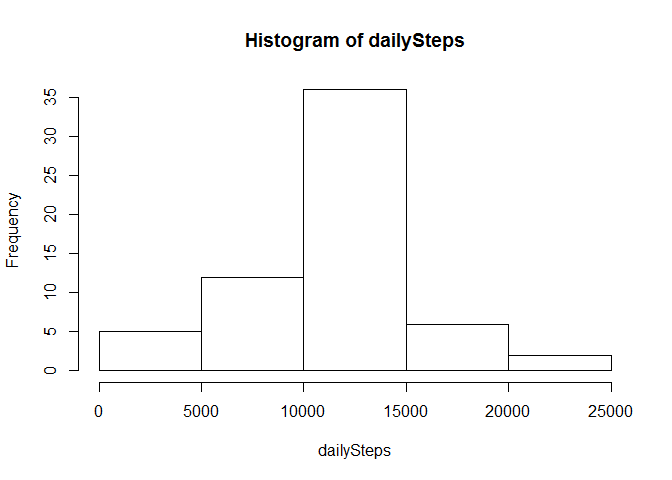
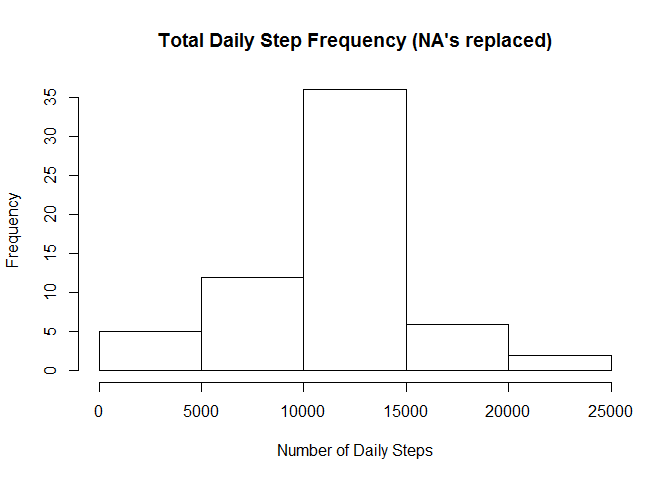
fixed final section

Changed region(s): [[0.2188, 0.0625, 0.8438, 0.125], [0.4062, 0.9062, 0.6562, 0.9688]]

diff --git a/PA1_template.html b/PA1_template.html
@@ -130,7 +130,7 @@ days&lt;-split(activity_cc,as.factor(activity_cc$date))</code></pre>
 </div>
 <div id="what-is-mean-total-number-of-steps-taken-per-day" class="section level2">
 <h2>What is mean total number of steps taken per day?</h2>
-<pre class="r"><code>##do lapply with a function that does the some of the data frame
+<pre class="r"><code>##do lapply with a function that does the sum of the data frame
 doSum&lt;-function(day) {
   df&lt;-as.data.frame(day)
   sum(df[,1])
@@ -144,8 +144,8 @@ days&lt;-split(activity_cc,as.factor(activity_cc$date))
 dailySteps&lt;-as.numeric(lapply(days,doSum))
 dailySteps&lt;-dailySteps[dailySteps&gt;0]  ##ignoring days where there are no steps as first and last day is NA
 ##Histogram of total daily steps
-hist(dailySteps)</code></pre>
[1 lines of base64/hex data omitted]
+hist(dailySteps,xlab = &quot;Number of Daily Steps&quot;,main = &quot;Total Daily Step Frequency&quot;)</code></pre>
[1 lines of base64/hex data omitted]
 <pre class="r"><code>##summary including the mean and median
 summary(dailySteps)</code></pre>
 <pre><code>##    Min. 1st Qu.  Median    Mean 3rd Qu.    Max. 
@@ -164,6 +164,10 @@ ctimes&lt;-names(activity_int)
 ctimes&lt;-ctimes[2:289]
 plot(x=ctimes,y=cmeans,type=&quot;l&quot;,xlab = &quot;Time (in 5 min intervals&quot;,ylab = &quot;Mean Steps&quot;, main=&quot;Daily Activity Pattern&quot;)</code></pre>
[1 lines of base64/hex data omitted]
+<p>We also want to know the interval with the maxium number of steps</p>
+<pre class="r"><code>ctimes[which.max(cmeans)]</code></pre>
+<pre><code>## [1] &quot;835&quot;</code></pre>
+<p>Or 8:35 in the morning</p>
 </div>
 <div id="imputing-missing-values" class="section level2">
 <h2>Imputing missing values</h2>
@@ -185,8 +189,8 @@ for(i in replace) {
 days&lt;-split(activity,as.factor(activity$date))
 dailySteps&lt;-as.numeric(lapply(days,doSum))
 dailySteps&lt;-dailySteps[dailySteps&gt;0]
-hist(dailySteps)</code></pre>
[1 lines of base64/hex data omitted]
+hist(dailySteps, xlab = &quot;Number of Daily Steps&quot;,main = &quot;Total Daily Step Frequency (NA's replaced)&quot;)</code></pre>
[1 lines of base64/hex data omitted]
 <p>The summary of daily steps where NA is replaced</p>
 <pre class="r"><code>summary(dailySteps)</code></pre>
 <pre><code>##    Min. 1st Qu.  Median    Mean 3rd Qu.    Max. 
@@ -195,41 +199,46 @@ hist(dailySteps)</code></pre>
 <div id="are-there-differences-in-activity-patterns-between-weekdays-and-weekends" class="section level2">
 <h2>Are there differences in activity patterns between weekdays and weekends?</h2>
 <p>Process the updated data (where NA is replace) to create separate datasets for weekends and weekdays and create timeseries graphs Note that the timeseries graphs appear to be as one would expace….more steps earlier on the weekdays with steps decreasing earlier. On the weekends steps jump up a little later but there are more steps during the day and longer into the evening.</p>
+<pre class="r"><code>require(lattice)</code></pre>
+<pre><code>## Loading required package: lattice</code></pre>
 <pre class="r"><code>##create the weekday and weekend column
 dows&lt;-weekdays(as.Date(activity$date))
 dows[dows==&quot;Sunday&quot; | dows==&quot;Saturday&quot;]&lt;-&quot;Weekend&quot;
 dows[!(dows==&quot;Weekend&quot;)]&lt;-&quot;Weekday&quot;
 
+
 ##bind it to the updated data and then splt using the weekend/weekday column as a factor
 x_wd&lt;-cbind(activity,dows)
-days2&lt;-split(x_wd,as.factor(x_wd$dows))
-wdVal&lt;-days2[[1]]
-weVal&lt;-days2[[2]]
+we2&lt;-spread(x_wd,interval,steps)
+grp&lt;-split(we2,we2$dows)
 
-##spread the data and calculate the means as was done earlier
-wdVal2&lt;-subset(wdVal,select = -dows)
-wd2&lt;-spread(wdVal2,interval,steps)
 
-sumcol&lt;-subset(wd2, select = -date)
-cmeans&lt;-colMeans(sumcol)
-ctimes&lt;-names(wd2)
-ctimes&lt;-ctimes[2:289]
+##create sum for weekdays
+wdToSum&lt;-subset(grp[[1]],select = c(-dows,-date))
+int&lt;-names(wdToSum)
+cmeans&lt;-colMeans(wdToSum)
+dow1&lt;-as.character(grp[[1]][1,2])
+dowVec1&lt;-as.vector(rep(dow1,length(cmeans)))
 
-##setup and create the first plot
-par(mfcol=c(2,1))
-par(mar=c( 4.1, 4.1, 1.1, 2.1))
-plot(x=ctimes,y=cmeans,type=&quot;l&quot;,xlab = &quot;Time (in 5 min intervals&quot;,ylab = &quot;Mean Steps&quot;, main = &quot;Weekday Steps&quot;,cex.main=.75,cex.axis=0.75,cex.lab=.75)
 
-##do the same for the weekend data
-weVal2&lt;-subset(weVal,select = -dows)
-we2&lt;-spread(weVal2,interval,steps)
+##turn it into a data frame for lattice
+df1&lt;-as.data.frame(cbind(dow1,cmeans,int))
 
-sumcol&lt;-subset(we2, select = -date)
-cmeans&lt;-colMeans(sumcol)
-ctimes&lt;-names(we2)
-ctimes&lt;-ctimes[2:289]
-plot(x=ctimes,y=cmeans,type=&quot;l&quot;,xlab = &quot;Time (in 5 min intervals&quot;,ylab = &quot;Mean Steps&quot;, main = &quot;Weekend Steps&quot;,cex.main=.75,cex.axis=0.75,cex.lab=.75)</code></pre>
[1 lines of base64/hex data omitted]
+##the same for weekends
+wdToSum2&lt;-subset(grp[[2]],select = c(-dows,-date))
+cmeans&lt;-colMeans(wdToSum)
+dow1&lt;-as.character(grp[[2]][1,2])
+
+dowVec1&lt;-as.vector(rep(dow1,length(cmeans)))
+df2&lt;-as.data.frame(cbind(dow1,cmeans,int))
+
+##put the two together
+dfTotal&lt;-rbind(df2,df1)
+dfTotal$cmeans&lt;-as.integer(as.numeric(as.character(dfTotal$cmeans)))
+dfTotal$int&lt;-as.integer(as.character(dfTotal$int))
+xyplot (cmeans ~ int | dow1, data=dfTotal, type=&quot;l&quot;,
+        layout=c(1,2), as.table=T, xlab=&quot;Interval&quot;, ylab=&quot;Number of steps&quot;)</code></pre>
[1 lines of base64/hex data omitted]
 </div>
 
 

diff --git a/PA1_template.md b/PA1_template.md
@@ -16,7 +16,7 @@ days<-split(activity_cc,as.factor(activity_cc$date))
 ## What is mean total number of steps taken per day?
 
 ```r
-##do lapply with a function that does the some of the data frame
+##do lapply with a function that does the sum of the data frame
 doSum<-function(day) {
   df<-as.data.frame(day)
   sum(df[,1])
@@ -30,7 +30,7 @@ days<-split(activity_cc,as.factor(activity_cc$date))
 dailySteps<-as.numeric(lapply(days,doSum))
 dailySteps<-dailySteps[dailySteps>0]  ##ignoring days where there are no steps as first and last day is NA
 ##Histogram of total daily steps
-hist(dailySteps)
+hist(dailySteps,xlab = "Number of Daily Steps",main = "Total Daily Step Frequency")
 ```
 
 ![](PA1_template_files/figure-html/numSteps-1.png)<!-- -->
@@ -73,7 +73,17 @@ plot(x=ctimes,y=cmeans,type="l",xlab = "Time (in 5 min intervals",ylab = "Mean S
 
 ![](PA1_template_files/figure-html/dailyActivity-1.png)<!-- -->
 
+We also want to know the interval with the maxium number of steps
 
+
+```r
+ctimes[which.max(cmeans)]
+```
+
+```
+## [1] "835"
+```
+Or 8:35 in the morning
 
 ## Imputing missing values
 NOTE: My method for creating the missing values is taking the average for each interval using the dataset with only complete clases (x2
@@ -113,7 +123,7 @@ dates<-unique(as.Date(activity$date))
 days<-split(activity,as.factor(activity$date))
 dailySteps<-as.numeric(lapply(days,doSum))
 dailySteps<-dailySteps[dailySteps>0]
-hist(dailySteps)
+hist(dailySteps, xlab = "Number of Daily Steps",main = "Total Daily Step Frequency (NA's replaced)")
 ```
 
 ![](PA1_template_files/figure-html/dailySteps2-1.png)<!-- -->
@@ -137,40 +147,51 @@ Process the updated data (where NA is replace) to create separate datasets for w
 Note that the timeseries graphs appear to be as one would expace....more steps earlier on the weekdays with steps decreasing earlier.  On the weekends steps jump up a little later but there are more steps during the day and longer into the evening.
 
 ```r
+require(lattice)
+```
+
+```
+## Loading required package: lattice
+```
+
+```r
 ##create the weekday and weekend column
 dows<-weekdays(as.Date(activity$date))
 dows[dows=="Sunday" | dows=="Saturday"]<-"Weekend"
 dows[!(dows=="Weekend")]<-"Weekday"
 
+
 ##bind it to the updated data and then splt using the weekend/weekday column as a factor
 x_wd<-cbind(activity,dows)
-days2<-split(x_wd,as.factor(x_wd$dows))
-wdVal<-days2[[1]]
-weVal<-days2[[2]]
+we2<-spread(x_wd,interval,steps)
+grp<-split(we2,we2$dows)
 
-##spread the data and calculate the means as was done earlier
-wdVal2<-subset(wdVal,select = -dows)
-wd2<-spread(wdVal2,interval,steps)
 
-sumcol<-subset(wd2, select = -date)
-cmeans<-colMeans(sumcol)
-ctimes<-names(wd2)
-ctimes<-ctimes[2:289]
+##create sum for weekdays
+wdToSum<-subset(grp[[1]],select = c(-dows,-date))
+int<-names(wdToSum)
+cmeans<-colMeans(wdToSum)
+dow1<-as.character(grp[[1]][1,2])
+dowVec1<-as.vector(rep(dow1,length(cmeans)))
 
-##setup and create the first plot
-par(mfcol=c(2,1))
-par(mar=c( 4.1, 4.1, 1.1, 2.1))
-plot(x=ctimes,y=cmeans,type="l",xlab = "Time (in 5 min intervals",ylab = "Mean Steps", main = "Weekday Steps",cex.main=.75,cex.axis=0.75,cex.lab=.75)
 
-##do the same for the weekend data
-weVal2<-subset(weVal,select = -dows)
-we2<-spread(weVal2,interval,steps)
+##turn it into a data frame for lattice
+df1<-as.data.frame(cbind(dow1,cmeans,int))
 
-sumcol<-subset(we2, select = -date)
-cmeans<-colMeans(sumcol)
-ctimes<-names(we2)
-ctimes<-ctimes[2:289]
-plot(x=ctimes,y=cmeans,type="l",xlab = "Time (in 5 min intervals",ylab = "Mean Steps", main = "Weekend Steps",cex.main=.75,cex.axis=0.75,cex.lab=.75)
+##the same for weekends
+wdToSum2<-subset(grp[[2]],select = c(-dows,-date))
+cmeans<-colMeans(wdToSum)
+dow1<-as.character(grp[[2]][1,2])
+
+dowVec1<-as.vector(rep(dow1,length(cmeans)))
+df2<-as.data.frame(cbind(dow1,cmeans,int))
+
+##put the two together
+dfTotal<-rbind(df2,df1)
+dfTotal$cmeans<-as.integer(as.numeric(as.character(dfTotal$cmeans)))
+dfTotal$int<-as.integer(as.character(dfTotal$int))
+xyplot (cmeans ~ int | dow1, data=dfTotal, type="l",
+        layout=c(1,2), as.table=T, xlab="Interval", ylab="Number of steps")
 ```
 
 ![](PA1_template_files/figure-html/activityCompare-1.png)<!-- -->
